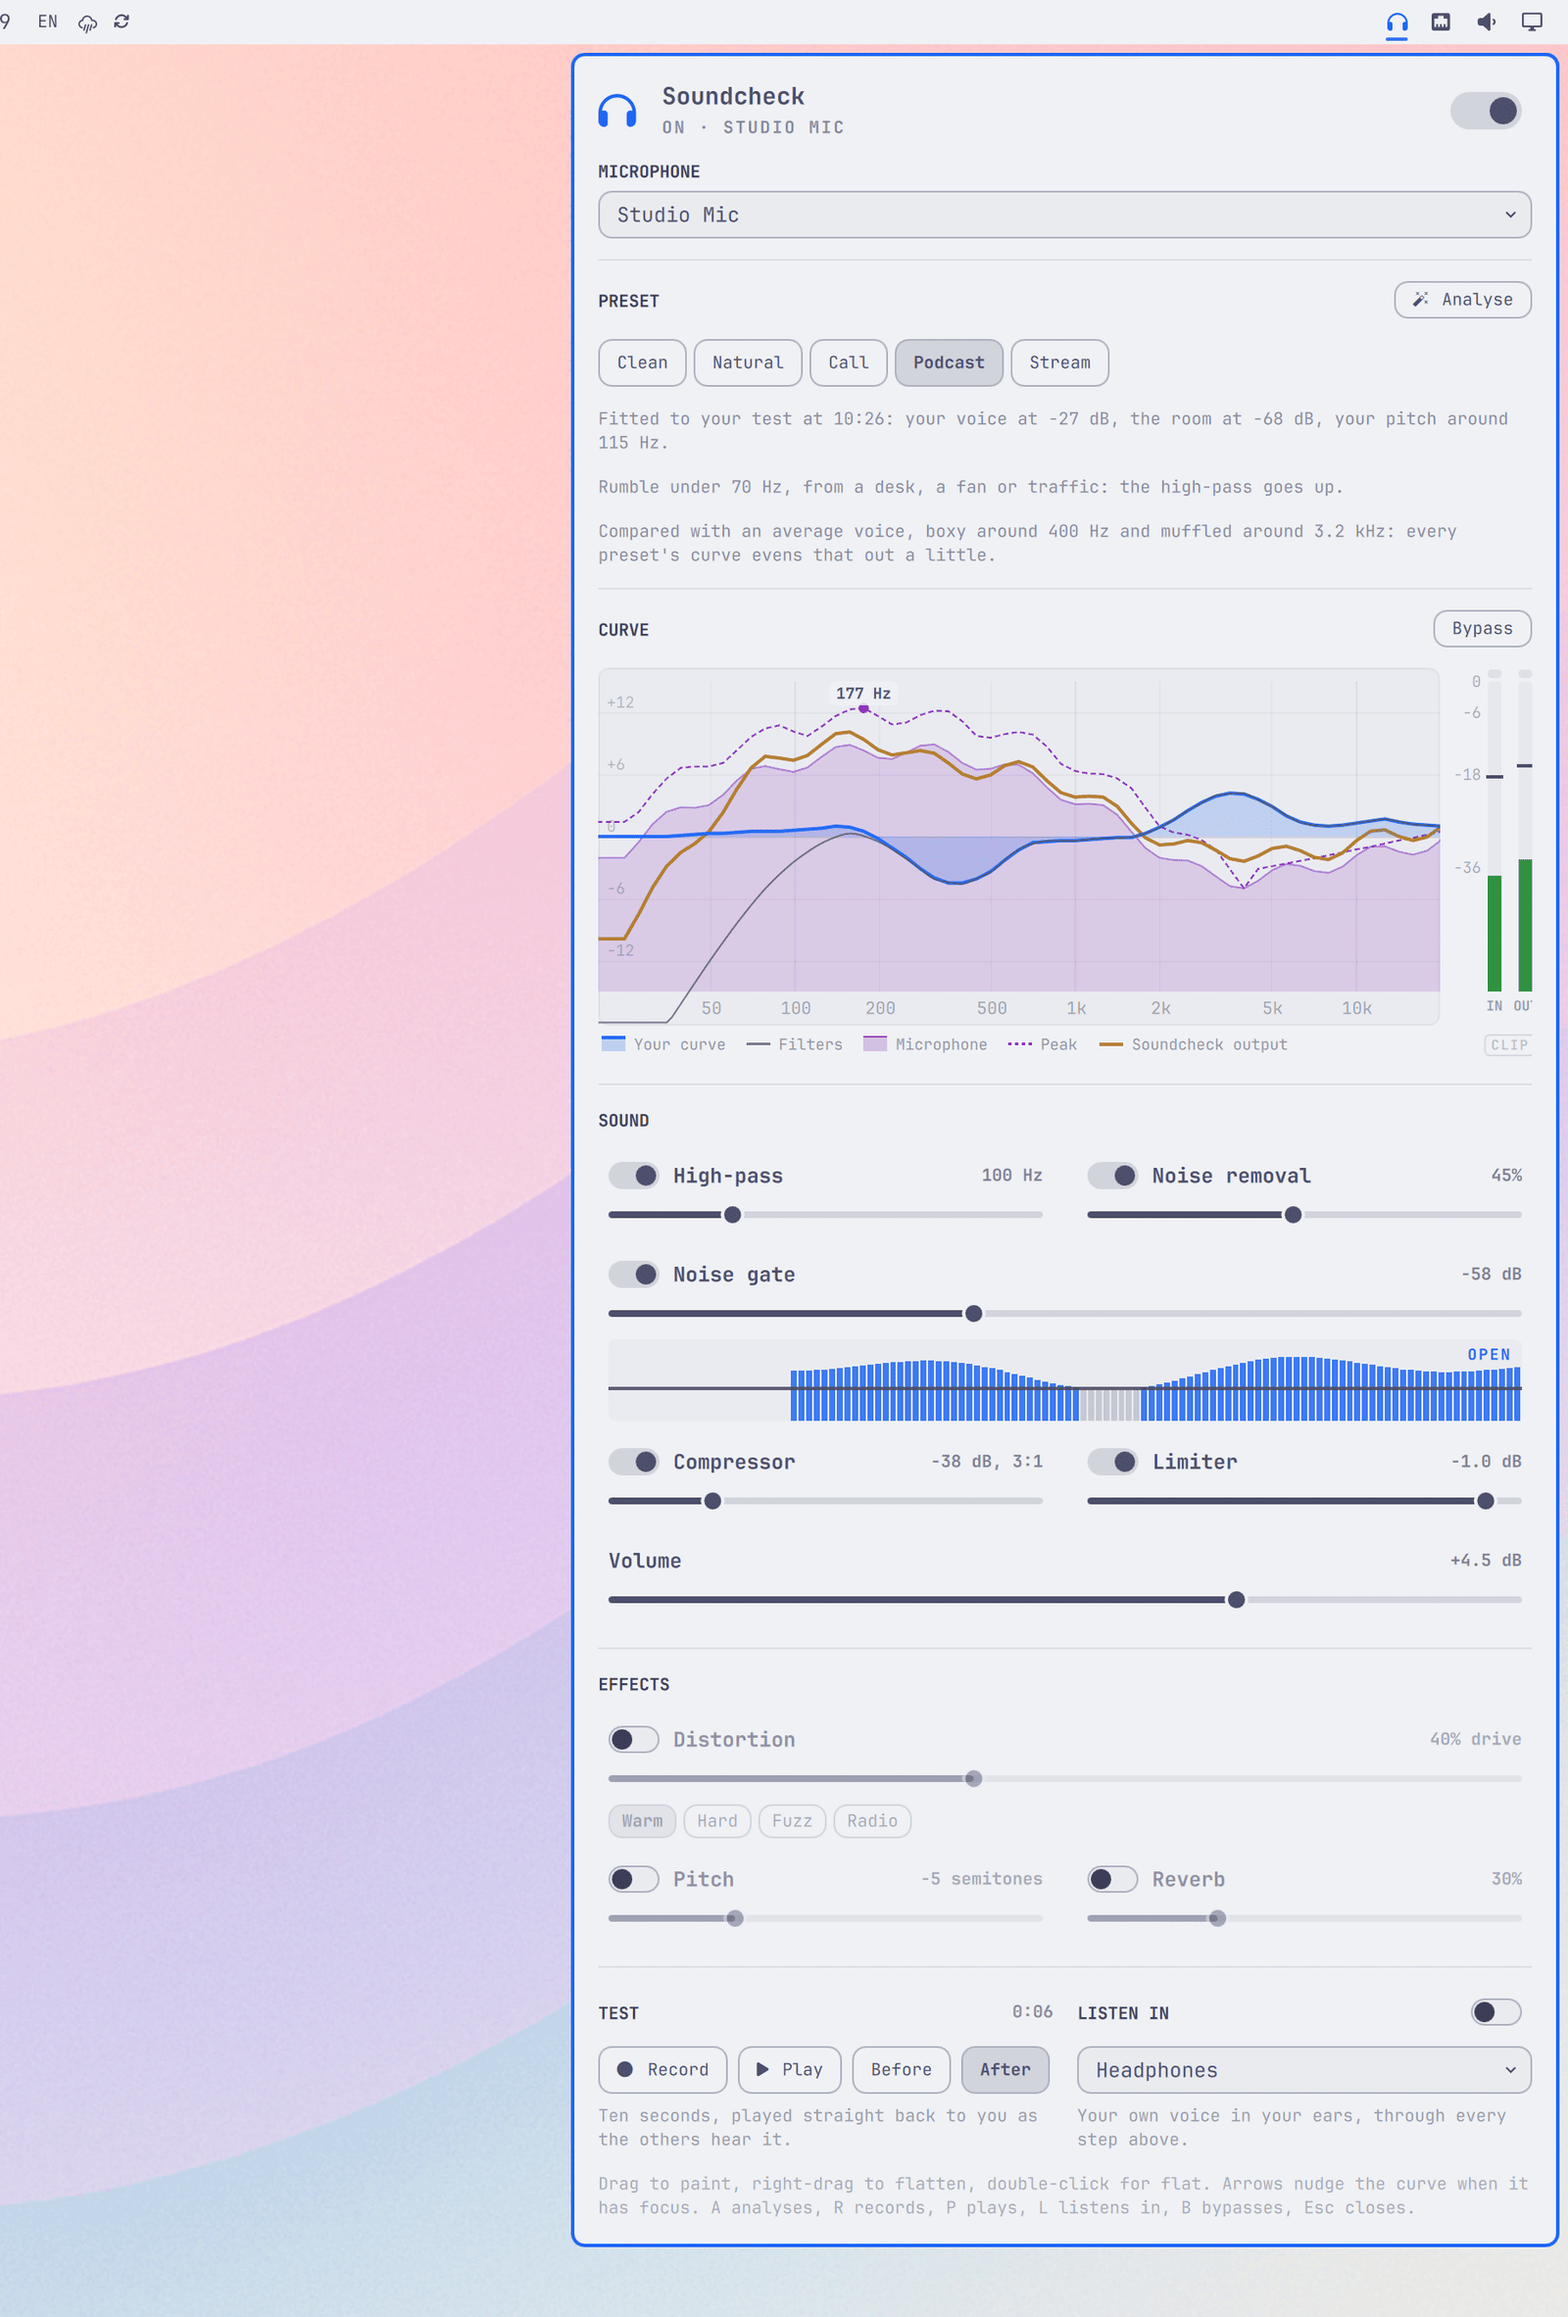
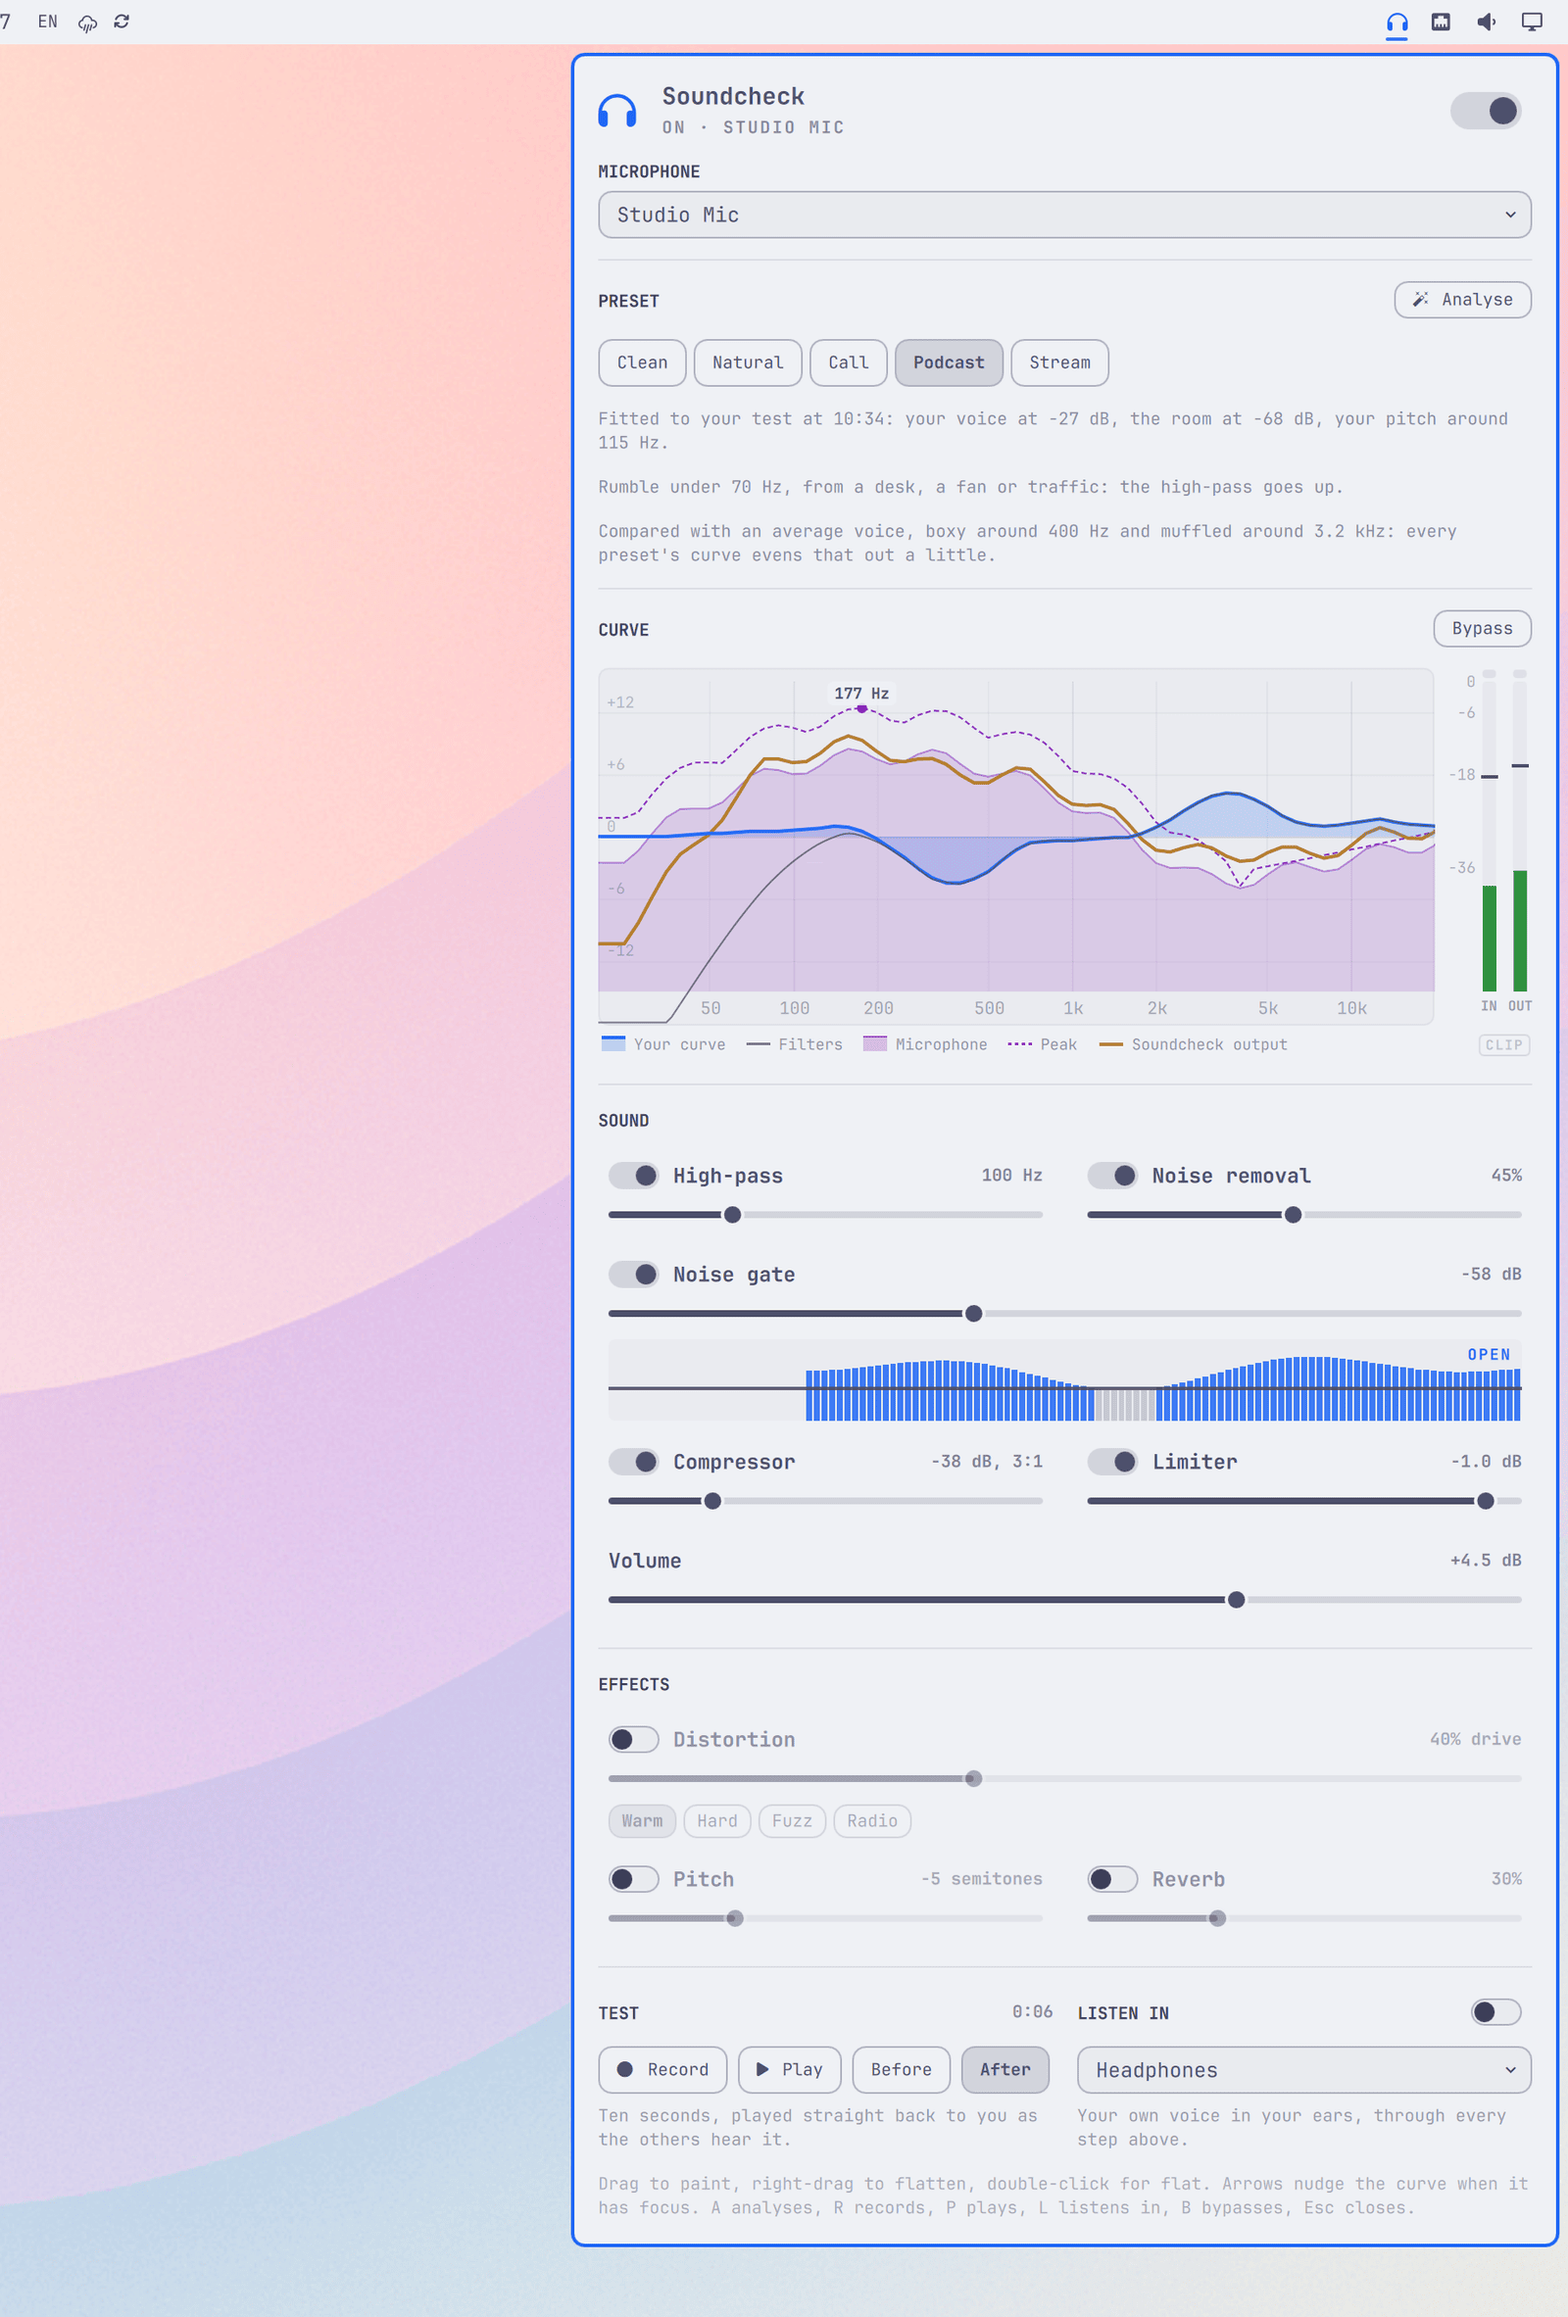
Give the meter's OUT label and CLIP badge room, and a social image
Both are wider than the bars they sit under and were cut off by the edge of
the panel. The meter now adds what sticks out on the right to its width.
The README screenshots are shot again with that, and screenshots/social.png
is the image for sharing: the curve and the steps of Sound beside a short
list of what the plugin does.

diff --git a/LevelMeter.qml b/LevelMeter.qml
@@ -34,7 +34,11 @@ Item {
   readonly property real barW: Style.space(8)
   readonly property real gap: Style.space(10)
   readonly property real labelW: scaleProbe.implicitWidth + Style.space(4)
-  implicitWidth: labelW + barW * 2 + gap
+  readonly property real bars: barW * 2 + gap
+  // OUT and the CLIP badge are wider than what they sit under. They get room
+  // on the right, or the edge of the panel cuts them off.
+  readonly property real overhang: Math.max(0, outProbe.implicitWidth / 2 - barW / 2, (clipBadge.width - bars) / 2)
+  implicitWidth: labelW + bars + overhang
   readonly property bool clipping: (sides.in.clip > now) || (hasOutput && sides.out.clip > now)
   property real now: 0
 
@@ -92,6 +96,15 @@ Item {
     text: "-48"
     font.family: meter.fontFamily
     font.pixelSize: Math.round(Style.font.caption * 0.85)
+  }
+
+  Text {
+    id: outProbe
+    visible: false
+    text: "OUT"
+    font.family: meter.fontFamily
+    font.pixelSize: Math.round(Style.font.caption * 0.8)
+    font.bold: true
   }
 
   // The scale, on the left.
@@ -185,7 +198,8 @@ Item {
 
   // CLIP under both bars: dim until something clips, so you know where to look.
   Rectangle {
-    x: meter.labelW + (meter.barW * 2 + meter.gap) / 2 - width / 2
+    id: clipBadge
+    x: meter.labelW + meter.bars / 2 - width / 2
     anchors.bottom: parent.bottom
     anchors.bottomMargin: Style.space(4)
     width: clipText.implicitWidth + Style.space(8)
